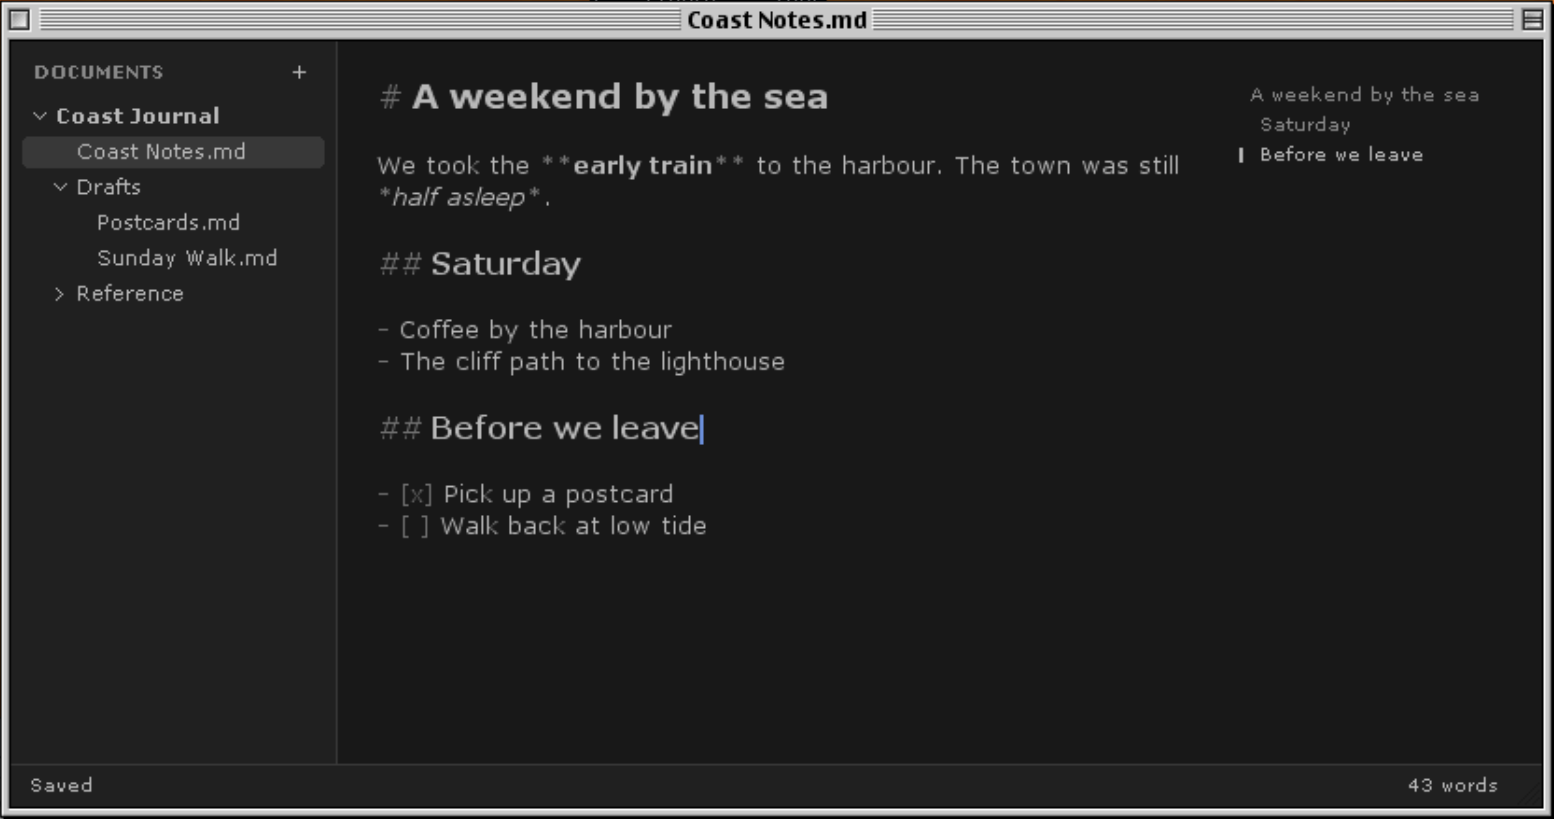
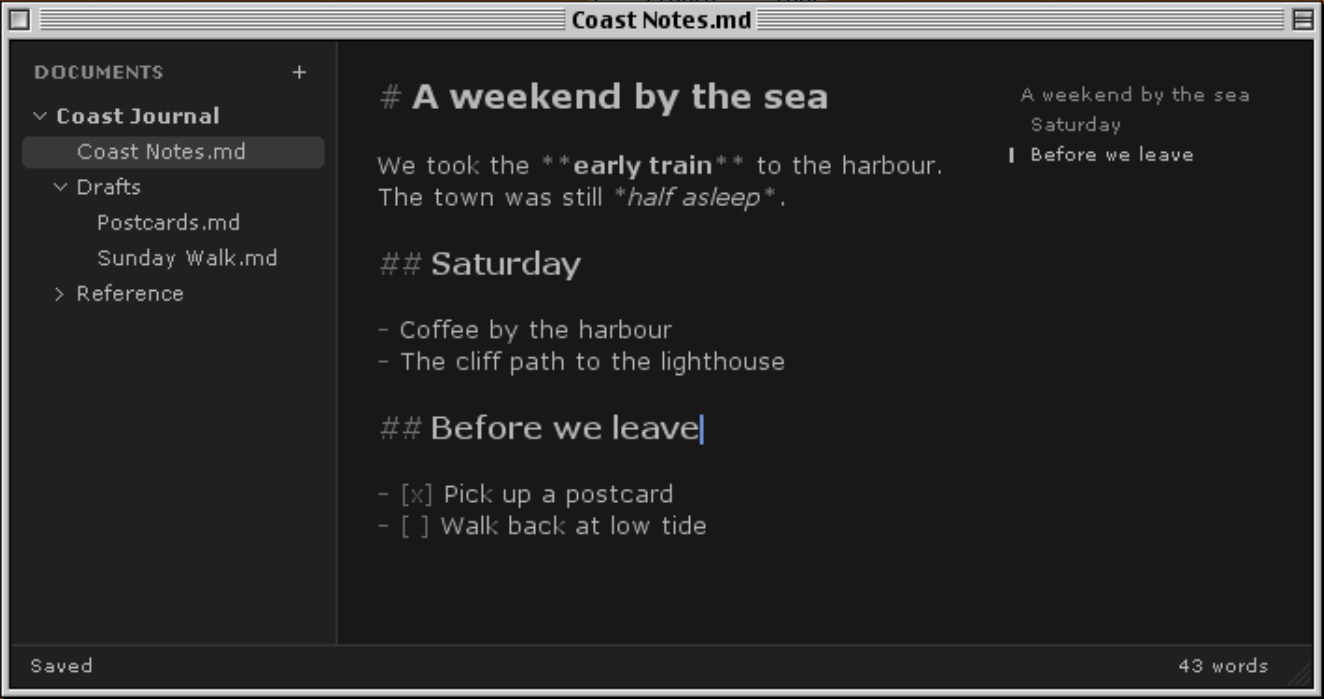
Refresh site screenshots and limit application build triggers

diff --git a/site/index.html b/site/index.html
@@ -20,7 +20,7 @@
   <main>
     <figure>
       <a href="assets/linewren-light.png">
-        <img src="assets/linewren-light.png" width="1554" height="819" alt="Full Linewren window on Mac OS 9 in light mode, with folders on the left and a heading outline on the right">
+        <img src="assets/linewren-light.png" width="1324" height="699" alt="Linewren in light mode on Mac OS 9, with the Coast Journal folders and Before we leave highlighted in the outline">
       </a>
       <figcaption>Light mode on Mac OS 9</figcaption>
     </figure>
@@ -31,7 +31,7 @@
     </section>
     <figure>
       <a href="assets/linewren-dark.png">
-        <img src="assets/linewren-dark.png" width="1554" height="819" loading="lazy" alt="Full Linewren window on Mac OS 9 showing the same draft in dark mode">
+        <img src="assets/linewren-dark.png" width="1324" height="699" loading="lazy" alt="Linewren in dark mode on Mac OS 9, with Before we leave highlighted in the outline">
       </a>
       <figcaption>Dark mode on Mac OS 9</figcaption>
     </figure>

diff --git a/site/linewren.css b/site/linewren.css
@@ -25,7 +25,7 @@ a:focus-visible { outline: 2px solid currentColor; outline-offset: 4px; }
 .intro { margin-bottom: 2rem; }
 .intro p { margin-top: .75rem; }
 nav { display: flex; flex-wrap: wrap; gap: .4rem 1.25rem; }
-figure { margin: 0; }
+figure { margin: 0; max-width: 662px; }
 figure a { display: block; }
 figure img { display: block; max-width: 100%; height: auto; }
 figcaption {
